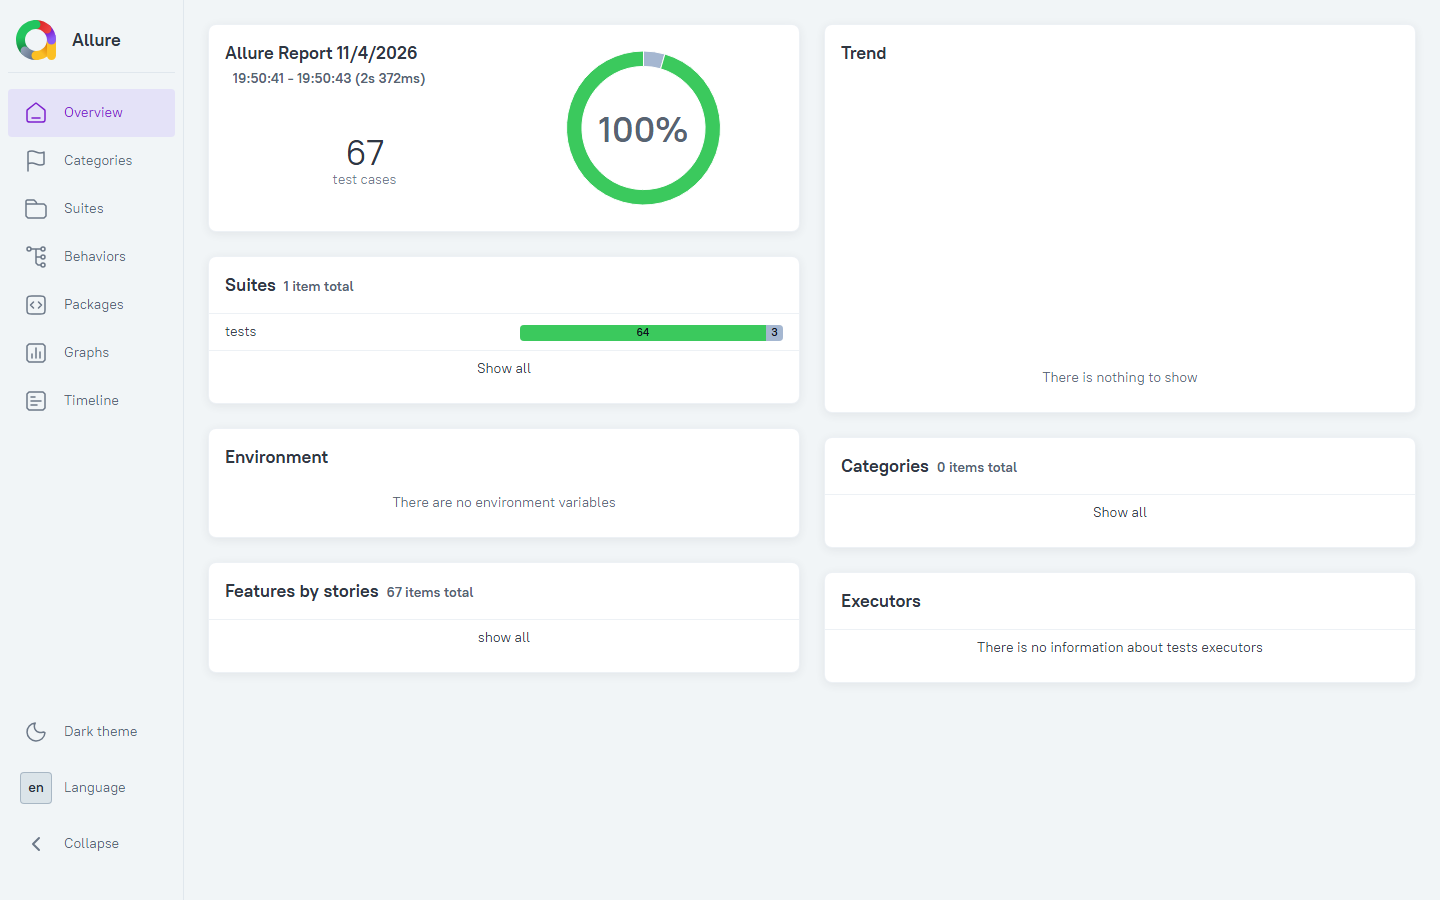
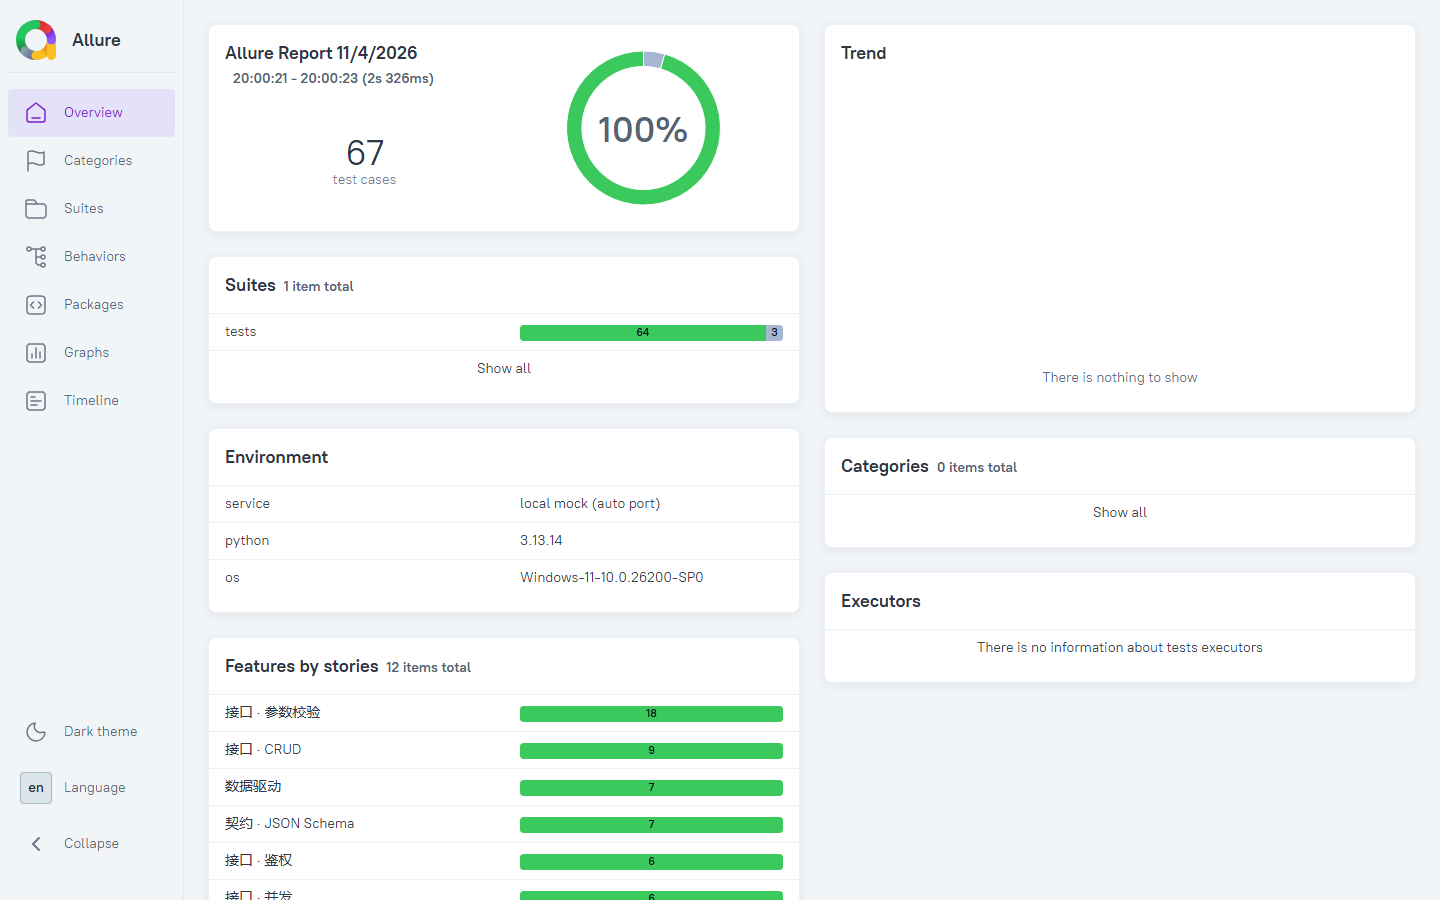
feat: Allure 标注（feature/story/severity/step/attach）+ 环境信息，报告按业务分组
全部测试文件加 allure.feature；关键用例加 story/severity 与 step/attach
conftest.py 写 environment.properties（服务地址/Python/系统）
ui_tests/conftest.py 失败截图同步挂进 Allure
requirements.txt 并入 allure-pytest，删除 requirements-allure.txt，CI 同步
README 第 13 节补标注对照表与详情截图

diff --git a/tests/test_validation.py b/tests/test_validation.py
@@ -3,8 +3,11 @@
 正常路径谁都会测，异常路径才体现测试功力 —— 这类用例是面试最常问的。
 """
 
+import allure
 import pytest
 import requests
+
+pytestmark = allure.feature("接口 · 参数校验")
 
 
 def _post(base_url, headers, payload):
@@ -57,11 +60,16 @@ def test_update_unknown_booking_returns_404(base_url, auth_headers, booking_payl
 
 # ---- 下面这几条是"等价类 + 边界值"补出来的，也是缺陷 4 的来源 ----
 
+@allure.severity(allure.severity_level.NORMAL)
+@allure.story("金额范围（BUG-004 回归）")
 def test_negative_price_is_rejected(base_url, auth_headers, booking_payload):
     """价格是负数没有业务含义 —— 等价类里的"无效类：负数"必须有对应用例。"""
     payload = {**booking_payload, "totalprice": -1}
-    response = _post(base_url, auth_headers, payload)
-    assert response.status_code == 400, f"负数价格竟然创建成功了：{response.text}"
+    with allure.step("提交 totalprice=-1 的预订"):
+        response = _post(base_url, auth_headers, payload)
+        allure.attach(response.text, name="服务端拒绝原因", attachment_type=allure.attachment_type.JSON)
+    with allure.step("断言被拒绝（400）"):
+        assert response.status_code == 400, f"负数价格竟然创建成功了：{response.text}"
 
 
 def test_same_day_checkin_and_checkout_is_rejected(base_url, auth_headers, booking_payload):

diff --git a/tests/test_schema.py b/tests/test_schema.py
@@ -11,10 +11,13 @@
 
 from pathlib import Path
 
+import allure
 import pytest
 import requests
 
 from schema_validator import SchemaError, load, validate
+
+pytestmark = allure.feature("契约 · JSON Schema")
 
 SCHEMA_DIR = Path(__file__).resolve().parent.parent / "schema"
 
@@ -23,11 +26,14 @@ def schema(name):
     return load(SCHEMA_DIR / name)
 
 
+@allure.severity(allure.severity_level.CRITICAL)
+@allure.story("创建响应契约")
 def test_created_booking_matches_schema(base_url, auth_headers, booking_payload):
     """创建响应：id 是正整数，booking 里 5 个字段齐全、类型对、值合法。"""
     response = requests.post(f"{base_url}/booking", json=booking_payload, headers=auth_headers)
     assert response.status_code == 200
-    validate(response.json(), schema("booking_created.schema.json"), "创建响应")
+    with allure.step("按 booking_created.schema.json 校验响应"):
+        validate(response.json(), schema("booking_created.schema.json"), "创建响应")
 
 
 def test_booking_detail_matches_schema(base_url, created_booking):

diff --git a/ui_tests/conftest.py b/ui_tests/conftest.py
@@ -13,6 +13,7 @@ import time
 import warnings
 from pathlib import Path
 
+import allure
 import pytest
 from playwright.sync_api import sync_playwright
 
@@ -50,8 +51,11 @@ def page(browser, base_url, request):
             stamp = time.strftime("%Y%m%d-%H%M%S")
             name = request.node.name.replace("[", "_").replace("]", "")
             try:
-                ui.screenshot(path=str(ARTIFACTS / f"{name}-{stamp}.png"), full_page=True)
+                shot = ARTIFACTS / f"{name}-{stamp}.png"
+                ui.screenshot(path=str(shot), full_page=True)
                 context.tracing.stop(path=str(ARTIFACTS / f"{name}-{stamp}.zip"))
+                # 同一张截图挂进 Allure 报告，失败原因和现场放在一起看
+                allure.attach.file(str(shot), name="失败截图", attachment_type=allure.attachment_type.PNG)
             except Exception as error:
                 # 页面已经崩了也要让原始失败信息露出来，别被留存逻辑盖住
                 warnings.warn(f"失败现场保存失败：{error}", RuntimeWarning)

diff --git a/tests/test_crud.py b/tests/test_crud.py
@@ -1,12 +1,20 @@
 """增删改查主流程：一条数据从创建到删除的完整生命周期。"""
 
+import allure
 import requests
 
+pytestmark = allure.feature("接口 · CRUD")
 
+
+@allure.severity(allure.severity_level.CRITICAL)
+@allure.story("创建预订")
 def test_create_returns_booking_id(base_url, auth_headers, booking_payload):
-    response = requests.post(f"{base_url}/booking", json=booking_payload, headers=auth_headers)
-    assert response.status_code == 200
-    assert isinstance(response.json().get("bookingid"), int)
+    with allure.step("POST /booking 创建一条预订"):
+        response = requests.post(f"{base_url}/booking", json=booking_payload, headers=auth_headers)
+        allure.attach(response.text, name="创建响应", attachment_type=allure.attachment_type.JSON)
+    with allure.step("断言返回 200 且 bookingid 是整数"):
+        assert response.status_code == 200
+        assert isinstance(response.json().get("bookingid"), int)
 
 
 def test_create_echoes_payload(base_url, auth_headers, booking_payload):

diff --git a/conftest.py b/conftest.py
@@ -7,7 +7,9 @@
 """
 
 import os
+import platform
 import socket
+import sys
 import time
 
 import pytest
@@ -17,6 +19,26 @@ import mock_server
 
 # 让 retry.py 里的失败重试插件自动生效（不需要 pip 装 pytest-rerunfailures）
 pytest_plugins = ["retry"]
+
+
+def pytest_configure(config):
+    """跑 --alluredir 时写一份环境信息，Allure 报告的 Environment 区块会显示它。"""
+    try:
+        alluredir = config.getoption("allure_report_dir", None)
+    except (ValueError, AttributeError):
+        return
+    if not alluredir:
+        return
+    from pathlib import Path
+
+    target = Path(alluredir) / "environment.properties"
+    target.parent.mkdir(parents=True, exist_ok=True)
+    rows = {
+        "service": os.environ.get("API_BASE_URL", "local mock (auto port)"),
+        "python": sys.version.split()[0],
+        "os": platform.platform(),
+    }
+    target.write_text("".join(f"{key}={value}\n" for key, value in rows.items()), encoding="utf-8")
 
 
 def _wait_ready(base_url, timeout=5.0):

diff --git a/tests/test_smoke.py b/tests/test_smoke.py
@@ -8,12 +8,13 @@ CI 里通常先跑冒烟，挂了就不用跑后面几百个用例了。
     pytest -m "not smoke"    # 跳过这一组
 """
 
+import allure
 import pytest
 import requests
 
 from assertions import assert_error_message, assert_fields_present, assert_json_field, assert_status
 
-pytestmark = pytest.mark.smoke
+pytestmark = [pytest.mark.smoke, allure.feature("冒烟")]
 
 
 def test_service_is_alive(base_url):

diff --git a/tests/test_data_driven.py b/tests/test_data_driven.py
@@ -7,10 +7,13 @@
 import json
 from pathlib import Path
 
+import allure
 import pytest
 import requests
 
 from assertions import assert_status
+
+pytestmark = allure.feature("数据驱动")
 
 CASES_FILE = Path(__file__).resolve().parent.parent / "data" / "booking_cases.json"
 CASES = json.loads(CASES_FILE.read_text(encoding="utf-8"))["cases"]

diff --git a/tests/test_concurrency.py b/tests/test_concurrency.py
@@ -13,10 +13,11 @@ import concurrent.futures
 import statistics
 import time
 
+import allure
 import pytest
 import requests
 
-pytestmark = pytest.mark.regression
+pytestmark = [pytest.mark.regression, allure.feature("接口 · 并发")]
 
 WORKERS = 10      # 同时压 10 个线程
 COUNT = 30        # 每个用例发 30 个请求

diff --git a/tests/test_contract.py b/tests/test_contract.py
@@ -1,8 +1,11 @@
 """契约测试：响应结构不能悄悄变。"""
 
+import allure
 import requests
 
 import contract
+
+pytestmark = allure.feature("契约 · 快照")
 
 
 def test_booking_response_contract(base_url, auth_headers, booking_payload):

diff --git a/ui_tests/test_booking_ui.py b/ui_tests/test_booking_ui.py
@@ -13,10 +13,11 @@
     python -m pytest ui_tests -v
 """
 
+import allure
 import pytest
 from playwright.sync_api import expect
 
-pytestmark = pytest.mark.ui
+pytestmark = [pytest.mark.ui, allure.feature("UI · 预订管理")]
 
 
 def login(page):

diff --git a/tests/test_health.py b/tests/test_health.py
@@ -1,6 +1,9 @@
 """健康检查与路由：服务活着、返回格式对、不存在的地址要 404。"""
 
+import allure
 import requests
+
+pytestmark = allure.feature("接口 · 健康检查")
 
 
 def test_ping_returns_200(base_url):

diff --git a/tests/test_auth.py b/tests/test_auth.py
@@ -1,6 +1,9 @@
 """鉴权：拿 token、错误凭据、缺失/错误 token 的拒绝路径。"""
 
+import allure
 import requests
+
+pytestmark = allure.feature("接口 · 鉴权")
 
 
 def test_auth_returns_token(base_url):
